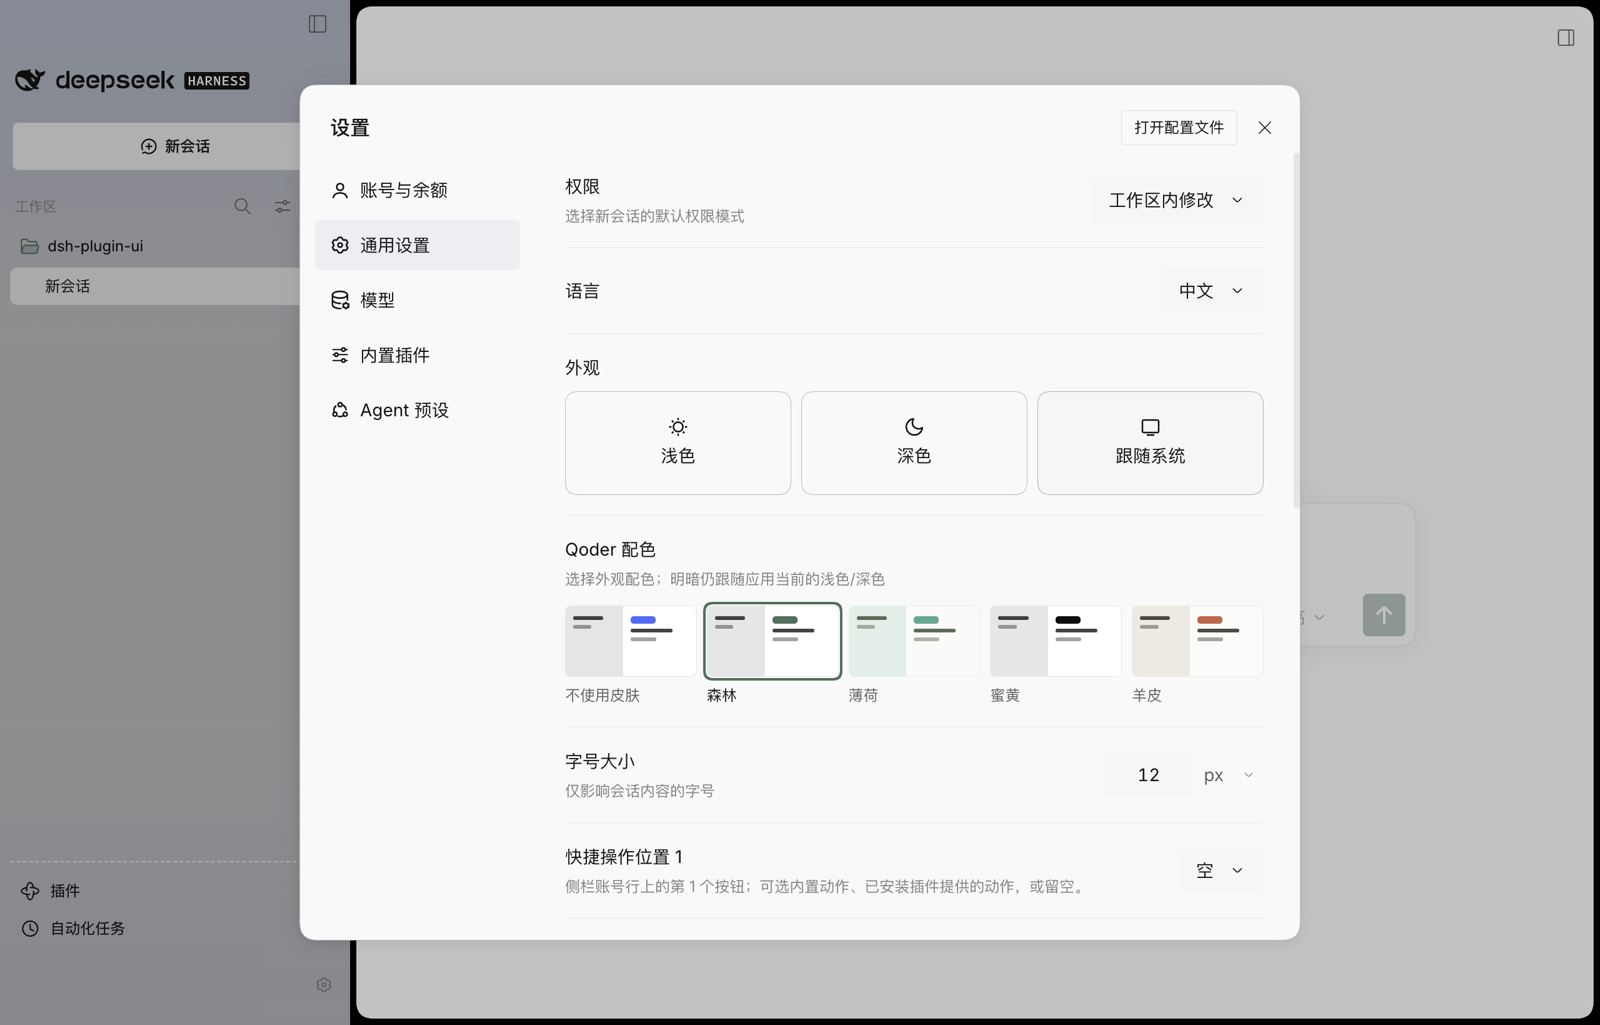
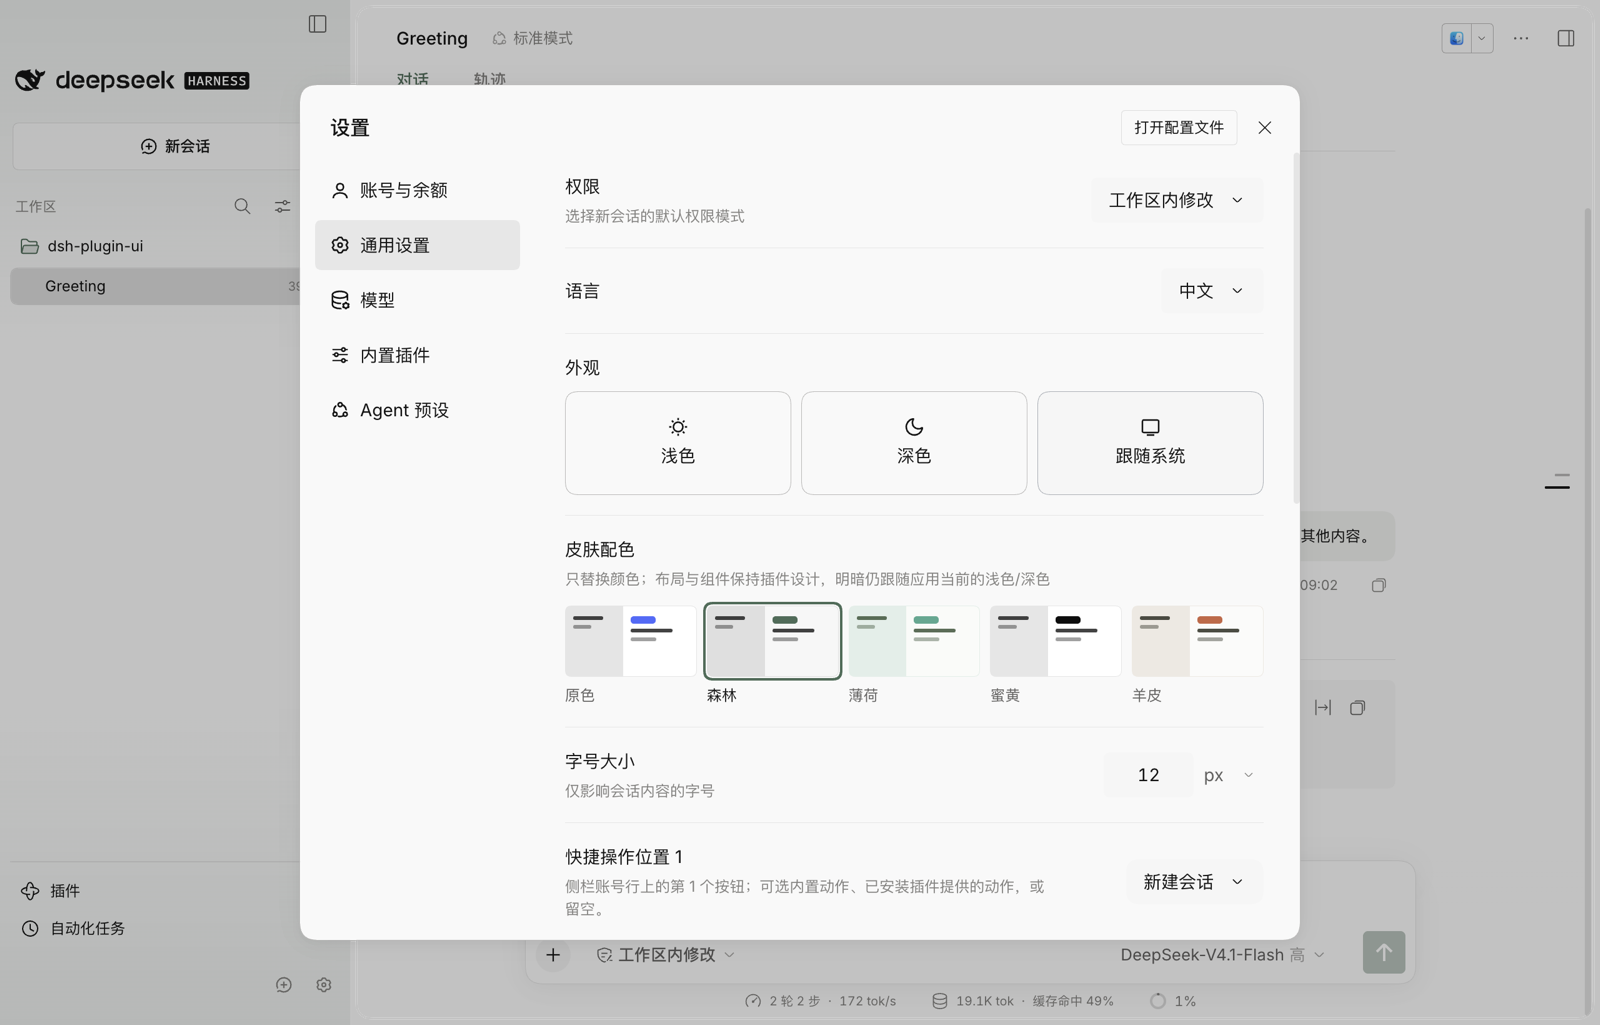
feat(palette): name the skin “皮肤配色”
Installed surfaces no longer mention Qoder: the quick-settings group and
the Appearance section both read “皮肤配色 / Skin palette”, and the plugin
description drops the Qoder-style framing. The README keeps the palette
provenance note and the settings screenshot shows the current labels.

diff --git a/dist/client.js b/dist/client.js
@@ -1682,7 +1682,7 @@ var zh = {
   "account.sizeLarge": "\u5927",
   "account.allSettings": "\u5168\u90E8\u8BBE\u7F6E\u2026",
   "account.quickActionsTitle": "\u8D26\u53F7\u884C\u5FEB\u6377\u64CD\u4F5C",
-  "palette.title": "Qoder \u914D\u8272",
+  "palette.title": "\u76AE\u80A4\u914D\u8272",
   "palette.hint": "\u53EA\u66FF\u6362\u989C\u8272\uFF1B\u5E03\u5C40\u4E0E\u7EC4\u4EF6\u4FDD\u6301\u63D2\u4EF6\u8BBE\u8BA1\uFF0C\u660E\u6697\u4ECD\u8DDF\u968F\u5E94\u7528\u5F53\u524D\u7684\u6D45\u8272/\u6DF1\u8272",
   "palette.none": "\u539F\u8272",
   "palette.forest": "\u68EE\u6797",
@@ -1738,7 +1738,7 @@ var en = {
   "account.sizeLarge": "Large",
   "account.allSettings": "All settings\u2026",
   "account.quickActionsTitle": "Account row quick actions",
-  "palette.title": "Qoder palette",
+  "palette.title": "Skin palette",
   "palette.hint": "Colors only; layout and components keep the plugin design, while light or dark follows the app",
   "palette.none": "Original colors",
   "palette.forest": "Forest",

diff --git a/src/client/locales.js b/src/client/locales.js
@@ -47,7 +47,7 @@ export const zh = {
   'account.sizeLarge': '大',
   'account.allSettings': '全部设置…',
   'account.quickActionsTitle': '账号行快捷操作',
-  'palette.title': 'Qoder 配色',
+  'palette.title': '皮肤配色',
   'palette.hint': '只替换颜色；布局与组件保持插件设计，明暗仍跟随应用当前的浅色/深色',
   'palette.none': '原色',
   'palette.forest': '森林',
@@ -105,7 +105,7 @@ export const en = {
   'account.sizeLarge': 'Large',
   'account.allSettings': 'All settings…',
   'account.quickActionsTitle': 'Account row quick actions',
-  'palette.title': 'Qoder palette',
+  'palette.title': 'Skin palette',
   'palette.hint': 'Colors only; layout and components keep the plugin design, while light or dark follows the app',
   'palette.none': 'Original colors',
   'palette.forest': 'Forest',

diff --git a/README.en.md b/README.en.md
@@ -2,7 +2,7 @@
 
 [简体中文](README.md) | **English**
 
-A Qoder-style UI layer for DeepSeek Harness: palette skin, a single-card model and reasoning-effort selector, and account quick actions. Client plugin only; core files are untouched.
+A palette skin for DeepSeek Harness: four skin palettes, a single-card model and reasoning-effort selector, and account quick actions. Client plugin only; core files are untouched. The palettes reference Qoder's skin colors.
 
 ## Showcase
 
@@ -18,12 +18,12 @@ A Qoder-style UI layer for DeepSeek Harness: palette skin, a single-card model a
 
 ## Features
 
-- **Appearance**: four Qoder palettes (Forest / Mint / Bee / Parchment, each in light and dark), picked from preview cards under Appearance or from the “Qoder palette” group in the quick settings menu; “Original colors” keeps the app's own colors while the plugin layout stays; a Qoder palette also tints the sidebar.
+- **Appearance**: four skin palettes (Forest / Mint / Bee / Parchment, each in light and dark), picked from preview cards under Appearance or from the “Skin palette” group in the quick settings menu; “Original colors” keeps the app's own colors while the plugin layout stays; a skin palette also tints the sidebar.
 - **Sidebar**: 5px main margin and 16px radius; workspace/session rows tightened to 30px and up; official brand row and New Session button kept; Plugins/Automation pinned above the account row with a solid divider.
 - **Text size**: sidebar text, including the account name, follows Text size (S/M/L = 12/14/16px) and New Session scales with it; the account row keeps the official 44px / 32px rows and 24px avatar.
 - **Model & effort**: one card shows the model list and effort levels (Off / Low / High / Max) with search, retry, and empty states; the Chinese UI localizes effort names.
 - **Account row (desktop)**: official 24px avatar / 44px row; signed out it is ⋯ + “More”; two configurable quick seats sit on the right.
-- **Account menu**: matches the official items (Settings, Contact us, sign in/out); quick settings open from the gear seat with language, color mode, Qoder palette, text size, and All settings.
+- **Account menu**: matches the official items (Settings, Contact us, sign in/out); quick settings open from the gear seat with language, color mode, Skin palette, text size, and All settings.
 
 ## Install
 
@@ -36,7 +36,7 @@ Uninstall from the Plugins page or with `dsh plugin --profile <profile> remove d
 
 ## Configuration
 
-- Appearance → **Qoder palette**: pick a palette from the preview cards; Forest is the default. The “Qoder palette” group in the quick settings menu writes the same setting.
+- Appearance → **Skin palette**: pick a palette from the preview cards; Forest is the default. The “Skin palette” group in the quick settings menu writes the same setting.
 - General → **Quick action slot 1/2**: choose a built-in action, an action registered by another plugin, or leave it empty.
 - Storage: `dsh-plugin-ui.palette` (palette) and `dsh-plugin-ui.quick-actions.v1` (the two seats).
 

diff --git a/README.md b/README.md
@@ -2,7 +2,7 @@
 
 **简体中文** | [English](README.en.md)
 
-为 DeepSeek Harness 注入 Qoder 风格界面：配色皮肤、单卡模型/推理强度选择器、账号快捷设置。客户端插件实现，不修改 core。
+为 DeepSeek Harness 注入配色皮肤界面：四套皮肤配色、单卡模型/推理强度选择器、账号快捷设置。客户端插件实现，不修改 core。皮肤配色参考 Qoder 的配色方案。
 
 ## 展示
 
@@ -18,12 +18,12 @@
 
 ## 功能
 
-- **外观**：四套 Qoder 配色（森林 / 薄荷 / 蜜黄 / 羊皮，即 Forest / Mint / Bee / Parchment，明暗各一版），在外观下用预览卡切换，也可从快捷设置菜单的“Qoder 配色”分栏切换，可选“原色”（只保留应用配色，布局仍为插件样式）；其他配色下侧栏底色跟随所选配色。
+- **外观**：四套皮肤配色（森林 / 薄荷 / 蜜黄 / 羊皮，即 Forest / Mint / Bee / Parchment，明暗各一版），在外观下用预览卡切换，也可从快捷设置菜单的“皮肤配色”分栏切换，可选“原色”（只保留应用配色，布局仍为插件样式）；其他配色下侧栏底色跟随所选配色。
 - **侧栏**：中栏 5px 外边距、16px 圆角；工作区/会话行收紧到 30px 起；顶部品牌行与新会话按钮保持官方设计；插件 / 自动化任务固定在账号行上方，实线分隔。
 - **字号**：侧栏文字（含账号行的用户名）跟随文字大小（小/中/大 = 12/14/16px），新会话按钮同步缩放；账号行保留官方 44px / 32px 行高与 24px 头像。
 - **模型与强度**：单卡展示模型列表与强度（关闭 / 低 / 高 / 最高），支持搜索、重试与空状态；中文界面本地化强度名。
 - **账号行（仅桌面版）**：官方 24px 头像 / 44px 行高，未登录为 ⋯ + “更多”；右侧两个可配置快捷座位。
-- **账号菜单（仅桌面版）**：与官方一致（设置、联系我们、登录/退出）；快捷设置由齿轮座位打开，含语言、颜色模式、Qoder 配色、文字大小与完整设置入口。
+- **账号菜单（仅桌面版）**：与官方一致（设置、联系我们、登录/退出）；快捷设置由齿轮座位打开，含语言、颜色模式、皮肤配色、文字大小与完整设置入口。
 
 ## 安装
 
@@ -36,7 +36,7 @@
 
 ## 配置
 
-- 外观 → **Qoder 配色**：预览卡选择配色，默认森林；快捷设置菜单的“Qoder 配色”分栏与预览卡是同一个设置。
+- 外观 → **皮肤配色**：预览卡选择配色，默认森林；快捷设置菜单的“皮肤配色”分栏与预览卡是同一个设置。
 - 通用设置 → **快捷操作位置 1/2**：两个座位可选内置动作、其他插件注册的动作，或留空。
 - 存储：`dsh-plugin-ui.palette`（配色）、`dsh-plugin-ui.quick-actions.v1`（两个座位）。
 
